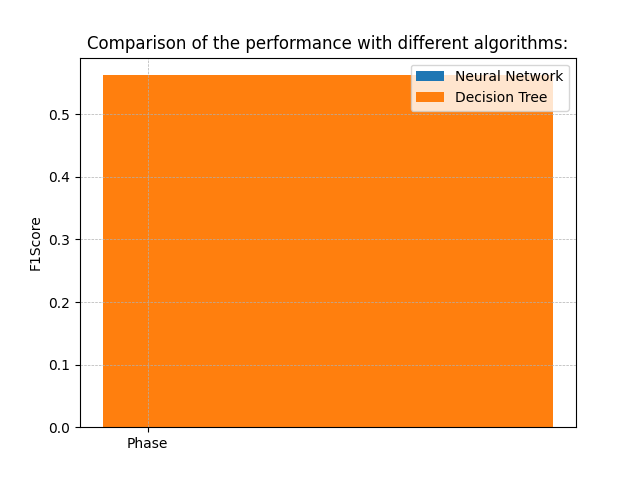
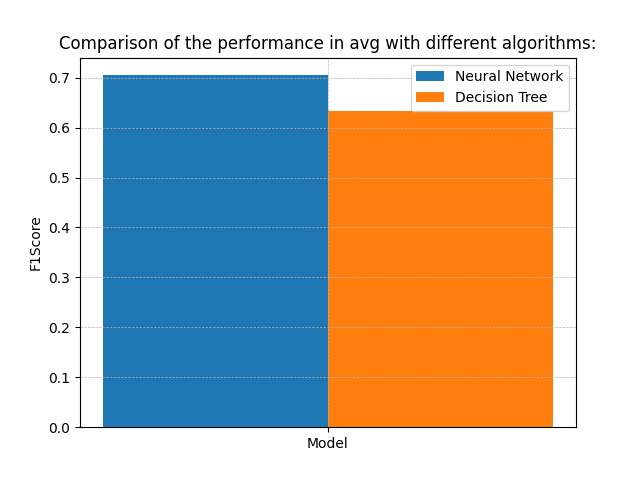
finished

diff --git a/main.py b/main.py
@@ -28,13 +28,13 @@ from sklearn.tree import plot_tree
 import threading
 import os
 from tensorflow.keras.callbacks import EarlyStopping
+from sklearn.preprocessing import LabelEncoder
 
 def changeDataset(df):
     """This function is meant to remove dropna values and remove spaces in strings"""
-    #print(f'Nº null values: {df.isna().sum().sum()}')
     df = df.loc[:, ~df.columns.str.contains('^Unnamed')]
-    df = df.rename(columns=lambda x: x.strip() if isinstance(x, str) else x)    # REMOVE SPACES IN STRING
-    df = df.dropna().reset_index(drop=True)                                     # REMOVE NULL VALUE
+    df = df.rename(columns=lambda x: x.strip() if isinstance(x, str) else x)
+    df = df.dropna().reset_index(drop=True)
     return df
 
 def deleteFeatures(df: pd.DataFrame, featuresList):
@@ -91,7 +91,7 @@ def startTrain(optionFunction, optionString, dfTrain, dfTargetTrain, dfTest, dfT
     f1ScoreList = list()
     iteration = 0
 
-    for i in range(5):
+    for i in range(30):
         optionFunction(dfTrain, dfTargetTrain, dfTest, dfTargetTest, accuracyList, precisionList, recallList, f1ScoreList)
     
     writeResults(optionString, accuracyList, precisionList, recallList, f1ScoreList)
@@ -107,10 +107,12 @@ def trainNN(dfTrain, dfTargetTrain, dfTest, dfTargetTest, accuracyList, precisio
     model = Sequential()
 
     model.add(Dense(dfTrain.shape[1], activation="relu"))
-    model.add(Dense(dfTrain.shape[1], activation="relu"))
+    model.add(Dense(dfTrain.shape[1] * 2 , activation="relu"))
+    model.add(Dense(dfTrain.shape[1] * 2 , activation="relu"))
+    model.add(Dense(dfTrain.shape[1] , activation="relu"))
     model.add(Dense(5, activation="relu"))
     model.add(Dense(3, activation="relu"))
-    model.add(Dense(1, activation="linear"))
+    model.add(Dense(1, activation="sigmoid"))
 
     earlyStopping = EarlyStopping(patience=10, min_delta=1e-3, monitor="val_loss", restore_best_weights=True)
     model.compile(loss="binary_crossentropy", optimizer='adam', metrics=['accuracy'])
@@ -119,16 +121,19 @@ def trainNN(dfTrain, dfTargetTrain, dfTest, dfTargetTest, accuracyList, precisio
 
     predictions = (model.predict(dfTest) > 0.5).astype(int)
     accuracyList.append(accuracy_score(dfTargetTest, predictions))
-    
+    precisionList.append(precision_score(dfTargetTest, predictions))
+    recallList.append(recall_score(dfTargetTest, predictions))
+    f1ScoreList.append(f1_score(dfTargetTest, predictions))
+
     cm    = confusion_matrix(dfTargetTest, predictions)
     TN, FP, FN, TP = cm.ravel()
     Precision    = TP/(TP+FP)
     Recall    = TP/(TP+FN)
     F1    = (2*Precision*Recall)/(Precision+Recall)
     
-    precisionList.append(Precision)
-    recallList.append(Recall)
-    f1ScoreList.append(F1)
+    #precisionList.append(Precision)
+    #recallList.append(Recall)
+    #f1ScoreList.append(F1)
 
 
 def trainDT(dfTrain, dfTargetTrain, dfTest, dfTargetTest, accuracyList, precisionList, recallList, f1ScoreList):
@@ -321,11 +326,11 @@ def comparePerformance(firstResults, secondResults, metric, resultName):
 
     xAxis = np.arange(len(x)) 
     plt.bar(xAxis - 0.2, firstY, 0.4, label = 'Neural Network') 
-    plt.bar(xAxis + 0.2, secondY, 0.5, label = 'Decision Tree') 
+    plt.bar(xAxis + 0.2, secondY, 0.4, label = 'Decision Tree') 
 
     plt.xticks(xAxis, x) 
     plt.ylabel(metric) 
-    plt.title("Comparison of the performance with different algorithms:") 
+    plt.title("Comparison of the performance in avg with different algorithms:") 
     plt.legend() 
     plt.grid(True, linestyle = '--', linewidth = 0.5)
     plt.show() 
@@ -345,8 +350,8 @@ def plotResults(options):
     
     #comparePerformance(metricsList[0]['Accuracy']['mean'], metricsList[1]['Accuracy']['mean'], "Accuracy", "resultAcc.png")
     #comparePerformance(metricsList[0]['Precision']['mean'], metricsList[1]['Precision']['mean'], "Precision", "resultPr.png")
-    comparePerformance(metricsList[0]['Recall']['mean'], metricsList[1]['Recall']['mean'], "Recall", "resultRec.png")
-    #comparePerformance(metricsList[0]['F1Score']['mean'], metricsList[1]['F1Score']['mean'], "F1Score", "resultF1.png")
+    #comparePerformance(metricsList[0]['Recall']['mean'], metricsList[1]['Recall']['mean'], "Recall", "resultRec.png")
+    comparePerformance(metricsList[0]['F1Score']['mean'], metricsList[1]['F1Score']['mean'], "F1Score", "resultF1.png")
 
 
 def main():
@@ -366,8 +371,8 @@ def main():
         
         #add the predictions of the ECG
         dfData[dfData.columns.size] = predictions
-        dfTrain, dfTest, dfTargetTrain, dfTargetTest = train_test_split(dfData, dfTarget, test_size=0.2, random_state=42)
-
+        dfTrain, dfTest, dfTargetTrain, dfTargetTest = train_test_split(dfData, dfTarget, test_size=0.2, random_state=42, stratify=dfTarget)
+        
         print("dfData:",dfData.head(5))
         print("dfTrain: ", dfTrain.head(5))
         hOptions = list()
